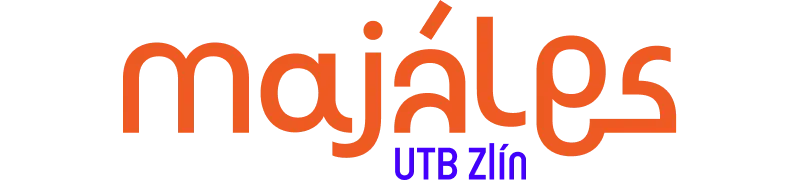
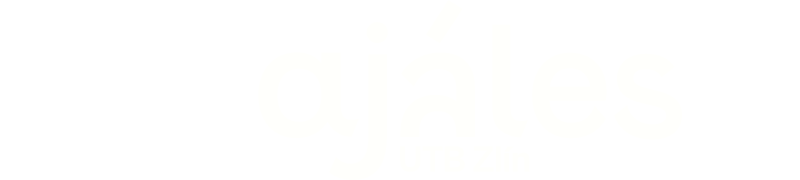
Footer update

Changed region(s): [[0.1562, 0.0833, 0.8438, 1.0], [0.4375, 0.0, 0.5625, 0.2222]]

diff --git a/src/components/shared/Icons.tsx b/src/components/shared/Icons.tsx
@@ -4,11 +4,11 @@ export const FbIcon = () => {
       <g clipPath="url(#clip0_635_78)">
         <path
           d="M8.98712 0C15.9942 0 23.0012 0 30.0083 0C30.7379 0.153742 31.4882 0.243234 32.1948 0.472699C36.2949 1.8059 38.9794 5.48653 38.9908 9.81195C39.0092 16.2714 39 22.7332 38.9908 29.1926C38.9885 31.267 38.4126 33.1807 37.1851 34.8604C35.1546 37.637 32.3945 38.9954 28.9598 38.9954C22.6915 38.9954 16.4209 39 10.1527 38.9885C9.49647 38.9885 8.8288 38.9587 8.18408 38.8417C4.5796 38.1854 2.06724 36.1386 0.692905 32.7562C0.339569 31.8934 0.22485 30.9297 0 30.0095C0 23.0039 0 15.9961 0 8.98817C0.0481821 8.71511 0.0940699 8.44204 0.144546 8.17128C0.819096 4.59161 2.84734 2.08355 6.20173 0.70446C7.07819 0.344199 8.05559 0.227171 8.98712 0ZM3.2718 19.5C3.2718 19.5 3.26262 19.5 3.25803 19.5C3.25803 22.6735 3.26491 25.847 3.25574 29.0205C3.25344 30.0371 3.3934 31.0238 3.84539 31.9393C5.10042 34.4658 7.14931 35.7393 9.97141 35.7416C16.3177 35.7485 22.664 35.7462 29.0079 35.7416C29.437 35.7416 29.8706 35.7095 30.2951 35.6521C33.225 35.2459 35.6915 32.5612 35.7098 29.6103C35.7511 22.9603 35.7282 16.3081 35.7305 9.65821C35.7305 8.75641 35.5561 7.88444 35.1592 7.08131C33.9088 4.55719 31.8645 3.2653 29.0447 3.263C22.6869 3.25382 16.3269 3.25841 9.96911 3.263C9.54006 3.263 9.10642 3.29513 8.68196 3.35479C5.78415 3.75406 3.32457 6.45258 3.28327 9.37368C3.23738 12.7491 3.2718 16.1269 3.2718 19.5023V19.5Z"
-          fill="#EF5A23"
+          fill="#FFFFFF"
         />
         <path
           d="M26.0137 19.6032V18.2884C26.0137 17.6619 26.0114 17.0378 26.0137 16.4136C26.0206 14.8395 26.9705 13.8964 28.5513 13.8918C29.4117 13.8872 30.2698 13.8895 31.1302 13.8895H31.534V9.10056C31.534 9.10056 31.5065 9.05926 31.4881 9.06155C29.8545 9.09597 28.2072 8.87109 26.5919 9.27954C23.522 10.0505 21.3171 12.7422 21.1932 15.9065C21.145 17.1158 21.184 18.3251 21.184 19.578H16.5104V24.4266H21.145V36.9439H26.0459V24.4472H30.8342C31.1027 22.8203 31.3642 21.2347 31.635 19.6032H26.0137Z"
-          fill="#EF5A23"
+          fill="#FFFFFF"
         />
       </g>
       <defs>
@@ -26,15 +26,15 @@ export const IgIcon = () => {
       <g clipPath="url(#clip0_635_85)">
         <path
           d="M8.75668 0C15.5841 0 22.4115 0 29.2389 0C29.9498 0.153742 30.6808 0.243234 31.3693 0.472699C35.3643 1.8059 37.9799 5.48653 37.9911 9.81195C38.0089 16.2714 38 22.7332 37.9911 29.1926C37.9888 31.267 37.4277 33.1807 36.2317 34.8604C34.2532 37.637 31.5638 38.9954 28.2172 38.9954C22.1097 38.9954 15.9999 39 9.89234 38.9885C9.25297 38.9885 8.60242 38.9587 7.97423 38.8417C4.46217 38.1854 2.01424 36.1386 0.675138 32.7562C0.330862 31.8934 0.219085 30.9297 0 30.0095C0 23.0039 0 15.9961 0 8.98817C0.0469467 8.71511 0.0916579 8.44204 0.14084 8.17128C0.798094 4.59161 2.77433 2.08355 6.04271 0.70446C6.89669 0.344199 7.84904 0.227171 8.75668 0ZM3.18791 19.5C3.18791 19.5 3.17896 19.5 3.17449 19.5C3.17449 22.6735 3.1812 25.847 3.17226 29.0205C3.17002 30.0371 3.30639 31.0238 3.74679 31.9393C4.96964 34.4658 6.966 35.7393 9.71573 35.7416C15.8993 35.7485 22.0828 35.7462 28.2642 35.7416C28.6822 35.7416 29.1047 35.7095 29.5183 35.6521C32.3731 35.2459 34.7763 32.5612 34.7942 29.6103C34.8345 22.9603 34.8121 16.3081 34.8143 9.65821C34.8143 8.75641 34.6444 7.88444 34.2577 7.08131C33.0393 4.55719 31.0474 3.2653 28.2999 3.263C22.1052 3.25382 15.9082 3.25841 9.7135 3.263C9.29545 3.263 8.87293 3.29513 8.45935 3.35479C5.63584 3.75406 3.23932 6.45258 3.19908 9.37368C3.15437 12.7491 3.18791 16.1269 3.18791 19.5023V19.5Z"
-          fill="#EF5A23"
+          fill="#FFFFFF"
         />
         <path
           d="M18.9509 9.75239C24.1642 9.7019 28.4654 14.0824 28.4945 19.4703C28.5235 24.8168 24.2871 29.1973 19.0425 29.2478C13.8314 29.2983 9.52799 24.9155 9.49893 19.5276C9.46987 14.1788 13.7018 9.80287 18.9486 9.75239H18.9509ZM18.9665 25.9917C22.4517 26.0192 25.282 23.1463 25.32 19.5414C25.358 15.9686 22.5591 13.0544 19.0448 13.0108C15.5506 12.9672 12.6935 15.8676 12.6712 19.4794C12.6511 23.0591 15.4567 25.9641 18.9643 25.9917H18.9665Z"
-          fill="#EF5A23"
+          fill="#FFFFFF"
         />
         <path
           d="M29.2881 11.3609C27.9825 11.3609 26.934 10.2939 26.9251 8.95382C26.9162 7.60685 27.9803 6.49854 29.2881 6.49854C30.5892 6.49854 31.6846 7.6321 31.6623 8.95382C31.6399 10.2939 30.5869 11.3609 29.2881 11.3609Z"
-          fill="#EF5A23"
+          fill="#FFFFFF"
         />
       </g>
       <defs>
@@ -52,7 +52,7 @@ export const LinkedInIcon = () => {
       <g clipPath="url(#clip0_635_73)">
         <path
           d="M0 31.1707C0 22.0425 0 12.9122 0 3.78186C0.0258557 3.68489 0.0560207 3.58792 0.0754125 3.48879C0.0969589 3.36596 0.101268 3.23883 0.127124 3.11815C0.495568 1.27355 2.10078 0 3.92791 0C12.9946 0.00215491 22.0614 0 31.1281 0C31.8154 0 32.4661 0.152998 33.0544 0.506403C34.2954 1.252 34.9935 2.34669 34.9935 3.80557C35.0043 12.923 35 22.0425 34.9957 31.16C34.9957 31.3862 34.9741 31.6146 34.9332 31.8366C34.6294 33.4808 33.2418 34.7436 31.6344 34.9246C31.5052 34.9397 31.3802 34.9741 31.2531 35H3.79432C3.67366 34.9741 3.553 34.9397 3.43234 34.9246C2.96479 34.8707 2.52093 34.7349 2.10939 34.5065C0.907104 33.8363 0.221928 32.8192 0.0732578 31.4466C0.0624846 31.3517 0.0258557 31.2612 0 31.1707ZM13.9341 13.2397C13.9276 13.3389 13.9147 13.4165 13.9147 13.494C13.9147 18.9589 13.9147 24.4237 13.9147 29.8886C13.9147 30.1558 13.9147 30.1558 14.1797 30.1558C15.6901 30.1558 17.2005 30.1558 18.7088 30.1558C18.8941 30.1558 18.9867 30.0617 18.9867 29.8735C18.9867 27.0936 18.9867 24.3117 18.9867 21.5318C18.9867 21.2301 18.9996 20.9285 19.0169 20.6268C19.047 20.157 19.1505 19.7023 19.3314 19.2692C19.6934 18.4094 20.3161 17.8469 21.2297 17.6207C21.6477 17.5172 22.0743 17.5043 22.5031 17.5409C23.0719 17.5884 23.5761 17.7888 23.9919 18.1896C24.3194 18.5063 24.5306 18.8921 24.675 19.3187C24.8689 19.8963 24.9443 20.4932 24.9464 21.1008C24.9508 24.0251 24.9464 26.9471 24.9486 29.8713C24.9486 30.061 25.0405 30.1558 25.2244 30.1558C26.7908 30.1558 28.3594 30.1558 29.9258 30.1558C30.2339 30.1558 30.2038 30.1515 30.2038 29.8735C30.2038 26.4601 30.2038 23.0467 30.2038 19.6334C30.2038 19.183 30.1887 18.7348 30.1391 18.2865C30.0637 17.5797 29.9129 16.8945 29.6479 16.2351C29.1243 14.927 28.2517 13.9379 26.9696 13.3281C26.1724 12.9488 25.3235 12.7764 24.4466 12.7312C23.895 12.7032 23.3412 12.7247 22.7983 12.8389C21.234 13.1686 19.9929 13.9918 19.0729 15.2977C19.0513 15.3279 19.0276 15.3537 18.9867 15.4033C18.9867 14.7611 18.9867 14.1513 18.9867 13.5414C18.9867 13.4854 18.9867 13.4272 18.9867 13.3712C18.9802 13.2591 18.9652 13.2462 18.8531 13.2397C18.8251 13.2397 18.7971 13.2397 18.7669 13.2397C17.222 13.2397 15.6793 13.2397 14.1344 13.2397H13.9341ZM5.35859 21.6827C5.35859 24.4173 5.35859 27.1518 5.35859 29.8864C5.35859 30.066 5.45052 30.1558 5.63439 30.1558C7.21805 30.1558 8.80171 30.1558 10.3854 30.1558C10.5577 30.1558 10.6439 30.0717 10.6439 29.9036C10.6439 24.4345 10.6439 18.9653 10.6439 13.4983C10.6439 13.3274 10.5549 13.2419 10.3768 13.2419C8.79956 13.2419 7.2202 13.2419 5.64301 13.2419C5.36075 13.2419 5.35859 13.201 5.35859 13.5328C5.35859 16.2502 5.35859 18.9675 5.35859 21.6848V21.6827ZM7.97864 11.0805C9.62694 11.0978 11.0856 9.73587 11.0899 7.95161C11.0942 6.30095 9.80147 4.80975 7.97217 4.80975C6.2183 4.80975 4.8501 6.21475 4.86087 7.95592C4.87164 9.82422 6.39067 11.0999 7.97864 11.0784V11.0805Z"
-          fill="#EF5A23"
+          fill="#FFFFFF"
         />
       </g>
       <defs>
@@ -70,7 +70,7 @@ export const WebIcon = () => {
       <g clipPath="url(#clip0_635_91)">
         <path
           d="M18.6248 36.9954C8.1723 36.7866 -0.223695 28.3793 0.00479976 18.0835C0.228631 7.97151 8.82748 -0.220195 19.4361 0.00451523C29.849 0.224686 38.2356 8.63656 37.9955 18.9324C37.76 29.0421 29.1705 37.1861 18.6248 36.9977V36.9954ZM24.5073 14.5176C20.8141 14.8944 17.1629 14.883 13.493 14.5222C13.2388 17.2028 13.2318 19.8221 13.4976 22.4778C17.1885 22.1033 20.8397 22.1124 24.5073 22.4733C24.7661 19.8017 24.7661 17.1937 24.5073 14.5176ZM3.77496 12.3636C2.12187 16.4764 2.11954 20.5326 3.77729 24.6341C6.13451 23.7534 8.52204 23.2041 10.9795 22.8001C10.6951 19.9175 10.6997 17.0666 10.9795 14.1953C8.51038 13.7935 6.12285 13.2352 3.77729 12.3636H3.77496ZM27.0208 22.8024C29.4946 23.1951 31.8774 23.7648 34.2276 24.6296C35.8807 20.5235 35.8807 16.4674 34.2253 12.3658C31.8611 13.2465 29.4619 13.7958 27.0208 14.2044C27.3052 17.0893 27.3029 19.922 27.0208 22.8046V22.8024ZM24.1436 12.073C24.1436 11.9709 24.1552 11.8937 24.1436 11.8211C23.7705 9.72834 23.2366 7.68325 22.3086 5.75165C21.8773 4.85281 21.3737 3.99482 20.6439 3.28664C19.5108 2.18806 18.4545 2.16082 17.3704 3.30707C16.8155 3.89268 16.3468 4.5827 15.9528 5.28634C15.0761 6.85023 14.5655 8.55031 14.1738 10.2844C14.0432 10.8678 13.936 11.4557 13.8101 12.0685C17.3004 12.418 20.7162 12.418 24.1459 12.073H24.1436ZM13.8427 24.9246C13.8497 25.0404 13.8474 25.1062 13.8567 25.1675C14.2227 27.233 14.7473 29.2577 15.659 31.1666C16.1486 32.1971 16.7175 33.1799 17.6175 33.9357C18.5618 34.7302 19.4338 34.7302 20.3804 33.9403C21.1149 33.3274 21.6232 32.5489 22.0615 31.725C22.9009 30.1406 23.4371 28.4542 23.8312 26.7201C23.9641 26.1367 24.0713 25.5466 24.1949 24.9292C20.7138 24.5774 17.2981 24.5796 13.845 24.9246H13.8427ZM23.7332 3.13457C25.3956 5.84244 26.1511 8.74097 26.7013 11.7416C28.879 11.408 30.9798 10.9064 33.0665 10.1528C30.8259 6.71177 27.7645 4.3875 23.7332 3.13457ZM23.7192 33.8722C27.7692 32.6034 30.8329 30.2859 33.0665 26.8449C30.9704 26.0913 28.872 25.5874 26.7736 25.2697C26.3866 26.7723 26.0531 28.2363 25.6288 29.6753C25.2021 31.1189 24.5959 32.5012 23.7216 33.8722H23.7192ZM11.2267 11.7303C11.6207 10.205 11.9564 8.74097 12.3831 7.30192C12.8075 5.86287 13.4183 4.48964 14.2764 3.1323C10.2381 4.38977 7.17439 6.71177 4.93841 10.1505C7.02051 10.9109 9.12359 11.4012 11.2267 11.7303ZM4.93608 26.8494C7.17905 30.2859 10.2404 32.6102 14.2647 33.8608C12.6093 31.1666 11.8492 28.259 11.2989 25.2538C9.11659 25.5988 7.01351 26.089 4.93608 26.8494Z"
-          fill="#EF5A23"
+          fill="#FFFFFF"
         />
       </g>
       <defs>

diff --git a/src/components/footer/SocialItem.tsx b/src/components/footer/SocialItem.tsx
@@ -4,7 +4,7 @@ import { ExternalLink } from '../shared/ExternalLink';
 export const SocialItem = ({ logo, logoName, socials }: FooterItemType) => {
   return (
     <div className="flex flex-col items-center gap-4 md:gap-8">
-      <img src={logo} alt={logoName} className="w-[240px] h-[54px]" width="240" height="54" loading="lazy" />
+      <img src={logo} alt={logoName} className="w-[240px] h-[54px] object-contain" width="240" height="54" loading="lazy" />
       <div className="flex flex-wrap items-center justify-between max-w-max gap-8">
         {socials.map((social) => (
           <ExternalLink key={social.link} {...social} />

diff --git a/src/data/footer.tsx b/src/data/footer.tsx
@@ -1,6 +1,6 @@
 import type { FooterItemType } from '../AppTypes';
 import majalesLogo from '../assets/img/majales-footer.webp?url';
-import utbLogo from '../assets/img/partners/utb.png?url';
+import utbLogo from '../assets/img/utb-footer.webp?url';
 import suLogo from '../assets/img/su-footer.webp?url';
 import { FbIcon, IgIcon, LinkedInIcon, WebIcon } from '../components/shared/Icons';
 import { MAJALES_TITLE } from '../config/constants';
